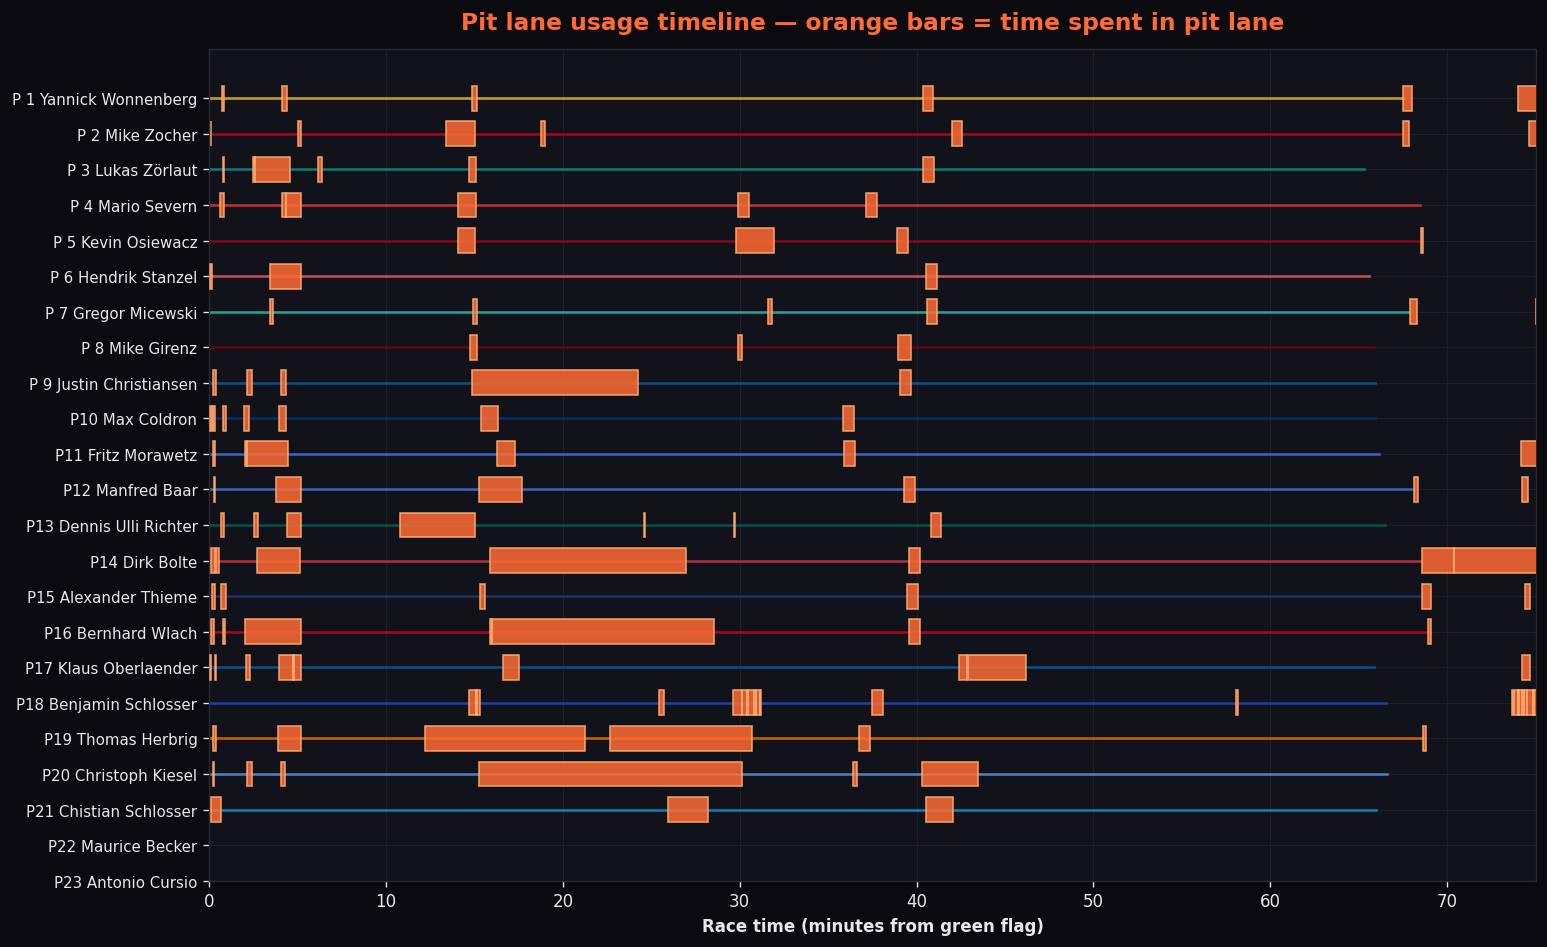
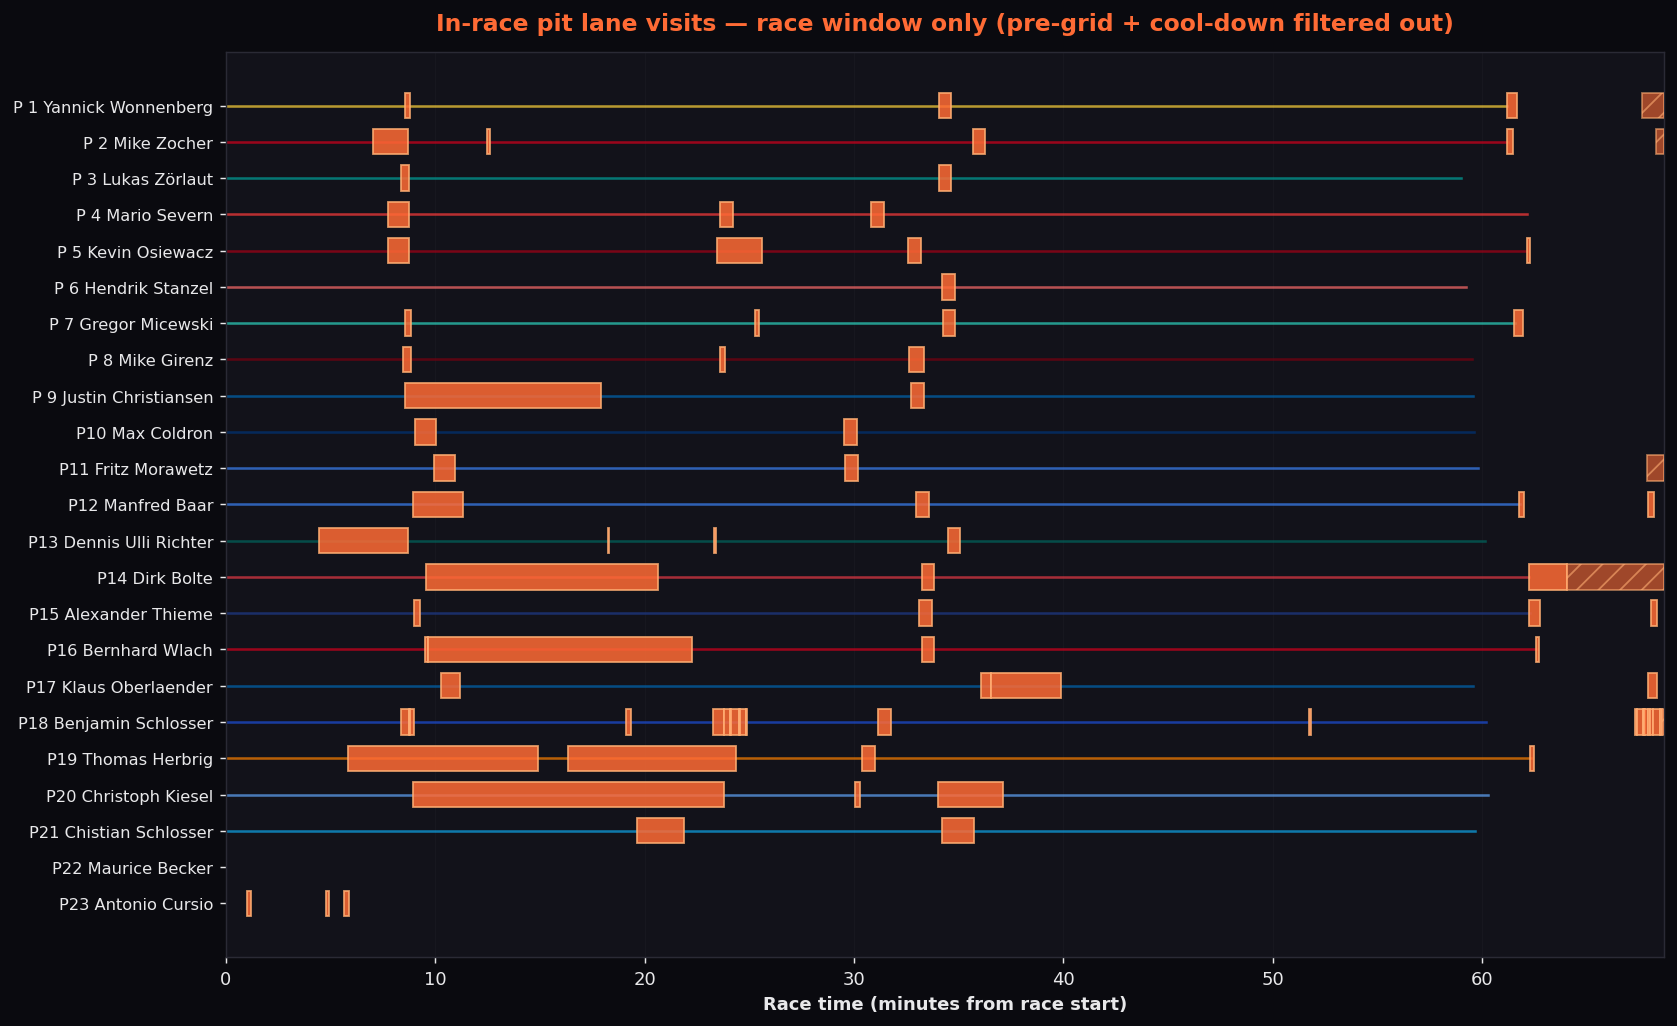
Update SimRacing Hub

diff --git a/de/race-center.html b/de/race-center.html
@@ -263,6 +263,13 @@
           </a>
           <p style="margin:0.6rem 0.3rem 0.3rem; font-size:0.85rem; color:rgba(255,255,255,0.65);">Verteilung der sauberen Rundenzeiten pro Fahrer. Lukas Z&ouml;rlaut hatte das engste Pace-Fenster (Stdabw 0,27&nbsp;s &uuml;ber 31 saubere Runden).</p>
         </div>
+        <div class="card" style="background:#0d0d14; padding:0.6rem;">
+          <span class="card-tag cas" style="margin: 0.3rem 0 0.5rem 0.3rem;">Pit-Lane-Timeline</span>
+          <a href="../races/magnycours-r10-chart-pits.png" target="_blank" style="display:block;">
+            <img src="../races/magnycours-r10-chart-pits.png" alt="Pit-Lane-Nutzungs-Timeline (nur Rennfenster)" style="width:100%; border-radius:6px; display:block;">
+          </a>
+          <p style="margin:0.6rem 0.3rem 0.3rem; font-size:0.85rem; color:rgba(255,255,255,0.65);">Orange Balken = Zeit in der Boxengasse w&auml;hrend des Rennens (Pre-Grid- und Cool-Down-Phase rausgefiltert). Zeigt <strong>alle</strong> Boxengassen-Events &mdash; strategische Stopps, Reparaturen, Durchfahrtsstrafen und Disconnect-Recoveries gemischt. Das Mandatory-Pit-Fenster ist als Cluster bei Minute 32 sichtbar. Lange Balken bedeuten meist Reparaturzeit, nicht eine strategische Entscheidung.</p>
+        </div>
       </div>
 
       <h3 class="race-block-title">Rennverlauf</h3>

diff --git a/race-center.html b/race-center.html
@@ -263,6 +263,13 @@
           </a>
           <p style="margin:0.6rem 0.3rem 0.3rem; font-size:0.85rem; color:rgba(255,255,255,0.65);">Clean-lap distribution per driver. Lukas Z&ouml;rlaut had the tightest pace window (stdev 0.27&nbsp;s over 31 clean laps).</p>
         </div>
+        <div class="card" style="background:#0d0d14; padding:0.6rem;">
+          <span class="card-tag cas" style="margin: 0.3rem 0 0.5rem 0.3rem;">Pit Lane Timeline</span>
+          <a href="races/magnycours-r10-chart-pits.png" target="_blank" style="display:block;">
+            <img src="races/magnycours-r10-chart-pits.png" alt="Pit lane usage timeline (race window only)" style="width:100%; border-radius:6px; display:block;">
+          </a>
+          <p style="margin:0.6rem 0.3rem 0.3rem; font-size:0.85rem; color:rgba(255,255,255,0.65);">Orange bars = time in pit lane during the race (pre-grid and cool-down filtered out). Shows <strong>all</strong> pit-lane events &mdash; strategic stops, damage repairs, drive-throughs and disconnect-related recoveries combined. The mandatory pit window is visible as the cluster around minute 32. Long bars typically mean damage/repair time, not a strategic choice.</p>
+        </div>
       </div>
 
       <h3 class="race-block-title">Race Highlights</h3>
